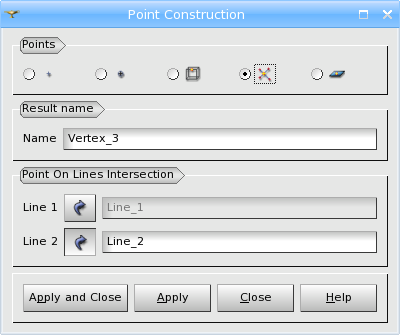
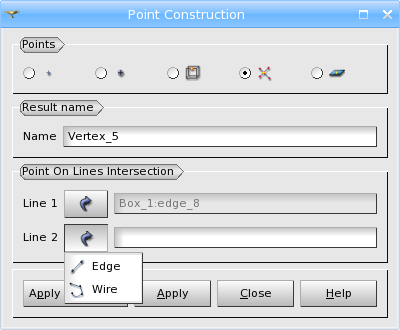
0020669: EDF 1198 GEOM: creation of vertices at intersection of 1D elements

diff --git a/src/BasicGUI/BasicGUI_PointDlg.h b/src/BasicGUI/BasicGUI_PointDlg.h
@@ -27,6 +27,7 @@
 #define BASICGUI_POINTDLG_H
 
 #include <GEOMBase_Skeleton.h>
+#include <QMap>
 
 class DlgRef_1Sel1Spin;
 class DlgRef_3Spin;
@@ -37,6 +38,8 @@ class DlgRef_1Sel2Spin;
 class QLineEdit;
 class QGroupBox;
 class QButtonGroup;
+class QMenu;
+class QAction;
 
 class gp_Pnt;
 
@@ -88,7 +91,14 @@ private:
   QLineEdit*                         myX;
   QLineEdit*                         myY;
   QLineEdit*                         myZ;
+
+  QGroupBox*                         myParamGroup;
   QButtonGroup*                      myParamCoord;
+
+  QMenu*                             myBtnPopup;
+  QMap<QAction*, int>                myActions;
+
+  TopAbs_ShapeEnum                   myNeedType;
   
 private slots:
   void                               ClickOnOk();
@@ -102,6 +112,7 @@ private slots:
   void                               ValueChangedInSpinBox( double );
   void                               SetDoubleSpinBoxStep( double );
   void                               ClickParamCoord();
+  void                               onBtnPopup( QAction* );
 };
 
 #endif // BASICGUI_POINTDLG_H
